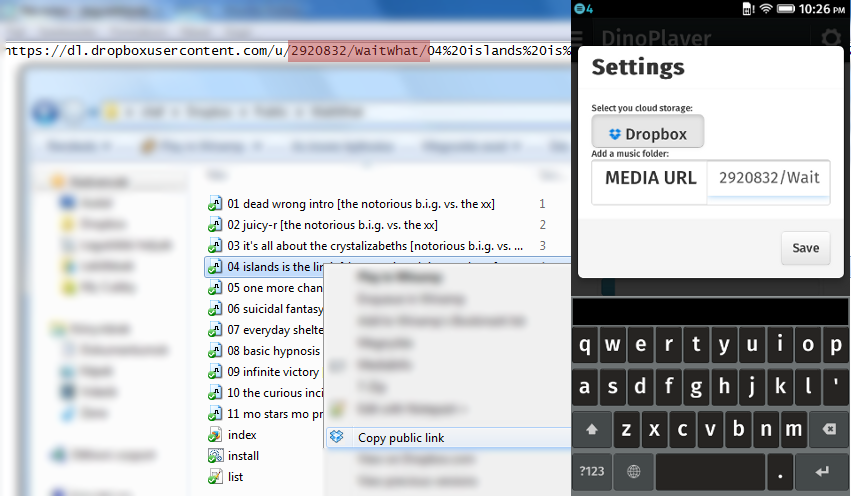
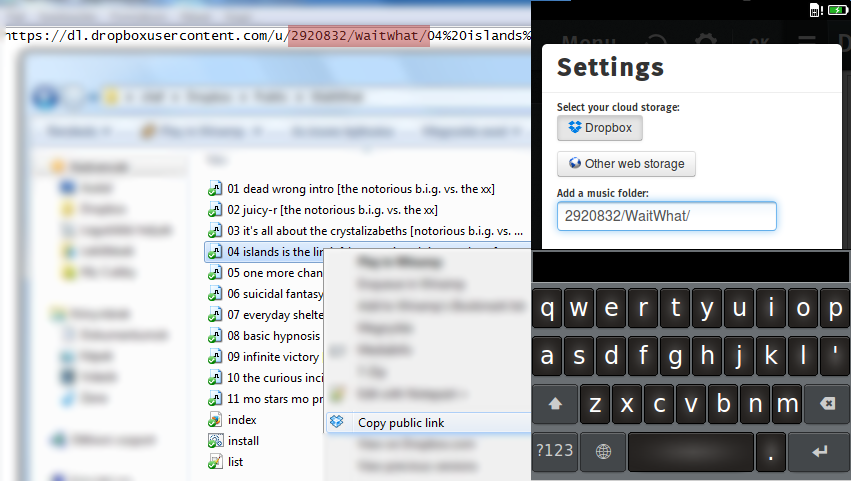
cover display is responsive; minor bugfix after changing cloud storage

diff --git a/app/scripts/controllers/main.js b/app/scripts/controllers/main.js
@@ -134,17 +134,10 @@ angular.module('dinoplayerApp').controller('MainCtrl', ['$scope', '$timeout', '$
         $rootScope.audio.setAttribute('preload', 'auto');
         $rootScope.progressBar = [0,0];
 
-        //~ TODO: volume control
-        // Get the HTML5 range input element and append audio volum adjustement on change
-        //~ var volume = document.getElementById('volume');
-        //~ volume.addEventListener('change', function(){
-            //~ $rootScope.audio.volume = parseFloat(this.value / 10);
-        //~ }, false);
-
         // time played
         $rootScope.audio.addEventListener("timeupdate", function() {
             $rootScope.playlist[$rootScope.trackCounter].currentTime = $rootScope.audio.currentTime;
-            var play = parseInt(($rootScope.audio.currentTime/$rootScope.audio.duration)*100);
+            var play = parseInt(($rootScope.audio.currentTime / $rootScope.audio.duration) * 100);
             $rootScope.progressBar[0] = play;
             var buff = $rootScope.progressBar[1];
             if (buff + play > 100) {
@@ -161,7 +154,7 @@ angular.module('dinoplayerApp').controller('MainCtrl', ['$scope', '$timeout', '$
 
         // preloading
         $rootScope.audio.addEventListener('progress', function() {
-            var buff = parseInt(($rootScope.audio.buffered.end($rootScope.audio.buffered.length-1)/$rootScope.audio.duration)*100);
+            var buff = parseInt(($rootScope.audio.buffered.end($rootScope.audio.buffered.length - 1) / $rootScope.audio.duration) * 100);
             var play = $rootScope.progressBar[0];
             if (buff - play > 100) {
                 buff = 100 - play;
@@ -243,13 +236,9 @@ angular.module('dinoplayerApp').controller('MainCtrl', ['$scope', '$timeout', '$
 
     $scope.backToPlayer = function(index) {
         $rootScope.trackSwitchedTo = index;
-        $scope.dontShowControl();
     };
 
     $scope.showControl = function() {
-        if ($rootScope.isControlVisible == -2) {
-            return;
-        }
         if ($rootScope.isControlVisible == undefined || $rootScope.isControlVisible == 0) {
             $rootScope.isControlVisible = 1;
             $("#overlayController").fadeIn("fast");
@@ -268,10 +257,6 @@ angular.module('dinoplayerApp').controller('MainCtrl', ['$scope', '$timeout', '$
                 $rootScope.isControlVisible = 0;
             }, 3000);
         }
-    };
-
-    $scope.dontShowControl = function() {
-        $rootScope.isControlVisible = -2;
     };
 
     $scope.playTrack = function(index) {
@@ -336,6 +321,7 @@ angular.module('dinoplayerApp').controller('MainCtrl', ['$scope', '$timeout', '$
                     $rootScope.settings.mediaurl += '/';
                 }
                 localStorage.dinoPlayerSettings = JSON.stringify($rootScope.settings);
+                $rootScope.isLoaded = false;
                 $scope.getPlaylist();
             } else {
                 try {

diff --git a/app/styles/main.css b/app/styles/main.css
@@ -58,11 +58,9 @@ html, body {
 }
 
 .cover {
-    width: 240px;
-    height: 240px;
+    width: 95%;
     display: inline-block;
-  vertical-align: middle;
-  width: 240px;
+    vertical-align: middle;
 }
 
 .dl-horizontal dt {
@@ -119,17 +117,9 @@ FIXES
     margin-bottom: 1rem;
 }
 
-.mediaurl-legend {
-    width: 13rem;
-}
-
-.mediaurl-section {
-    margin-left: 13rem;
-}
-
 .modal {
-    margin-left: -15rem !important;
-    width: 30rem !important;
+    margin-left: -15rem;
+    width: 30rem;
 }
 
 .modal .modal-body {
@@ -142,7 +132,7 @@ FIXES
     border-radius: 0px 0px 0px 0px;
     display: inline-block;
     vertical-align: middle;
-    width: 240px;
+    width: 95%;
     height: 5px;
 }
 

diff --git a/app/index.html b/app/index.html
@@ -57,7 +57,7 @@
         <section id="drawer" class="skin-dark" role="region">
             <header class="fixed">
                 <a href="#"><span class="icon icon-menu">hide sidebar</span></a>
-                <a href="#drawer" ng-click="dontShowControl()"><span class="icon icon-menu">show sidebar</span></a>
+                <a href="#drawer"><span class="icon icon-menu">show sidebar</span></a>
                 <menu type="toolbar">
                     <a ng-click="toggleRepeat()"><span class="icon icon-repeat_{{repeatTrack}}">repeat</span></a>
                 </menu>

diff --git a/app/views/main.html b/app/views/main.html
@@ -20,19 +20,8 @@
     </div>
 
     <div class="row-fluid">
-<!--
-        <div class="span4">
-        Volume:
-        <input id="volume" type="range" min="0" max="10" value="5"/>
-        </div>
--->
         <iframe id="detailsIframe" my-frame="detailsLoaded()">
         </iframe>
     </div>
-<!--
-
-    <input type="button" value="n" ng-click="nextTrack()" />
-    <input type="button" value="p" ng-click="previousTrack()" />
--->
 
 </div>

diff --git a/README.md b/README.md
@@ -33,18 +33,32 @@ Copy music in your Dropbox's Public folder. Download [install.bat](https://raw.g
 
 0. Install DinoPlayer Helper ([see previous section](#install)) in your Dropbox's Public folder (where you store mp3s).
 1. Install DinoPlayer from Firefox Marketplace.
-2. Select Dropbox as your cloud storage, and type in your Public folder's ID and folder name. You can get the Public folder's ID from your Dropbox page (see [screenshot](https://github.com/thesnapdragon/dinoplayer/blob/master/screenshots/screen4.png)), or from your desktop file manager ([see example on Windows](https://github.com/thesnapdragon/dinoplayer/blob/master/screenshots/screen5.png)). You can test it with this media url (example files are from [Wait What](https://soundcloud.com/wait-what/sets/the-notorious-xx)):
+2. Select your music storage service
+3. Add a music folder
+
+When you choose *Dropbox*:
+
+Type in your Public folder's ID and folder name. You can get the Public folder's ID from your Dropbox page (see [screenshot](https://github.com/thesnapdragon/dinoplayer/blob/master/screenshots/screen4.png)), or from your desktop file manager ([see example on Windows](https://github.com/thesnapdragon/dinoplayer/blob/master/screenshots/screen5.png)). You can test it with this media url (example files are from [Wait What](https://soundcloud.com/wait-what/sets/the-notorious-xx)):
 
 ~~~
 2920832/WaitWhat
 ~~~
 
-3. Click on *Save*.
-4. Listen unlimited music from cloud (without copying it to your phone)!
+When you choose *Other web storage*:
+
+You can use any web storage, where your music is accessible on the same path (Dropbox is useable with this method too), eg.:
+
+~~~
+https://dl.dropboxusercontent.com/u/2920832/WaitWhat
+~~~
+
+4. Click on *Save*.
+5. Listen unlimited music from cloud (without copying it to your phone)!
 
 **Currently supported cloud storages:**
 
 * [Dropbox](https://www.dropbox.com/)
+* Any other web storage
 
 ## Sites
 

diff --git a/CHANGELOG.md b/CHANGELOG.md
@@ -16,3 +16,17 @@
 <li>Warning message about necessary DinoPlayer Helper</li>
 <li>New backend + official site</li>
 </ul>
+
+# 1.3
+
+<strong>Changes:</strong>
+<ul>
+<li>other web storage option added to services</li>
+<li>repeat song feature added</li>
+<li>loading progressbar added</li>
+<li>new play progressbar</li>
+<li>settings menu new design</li>
+<li>reload playlist & settings button moved to menu</li>
+<li>cover display is responsive</li>
+<li>minor bugfix after changing cloud storage</li>
+</ul>

diff --git a/TODO.md b/TODO.md
@@ -1,4 +1,4 @@
 # TODO
 
+* fix progressbar glitches
 * player background
-* volume control
